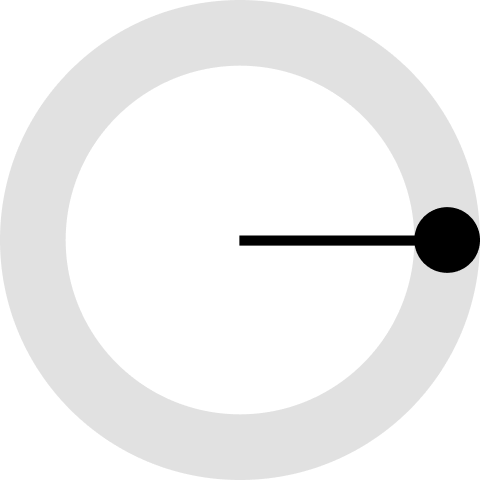
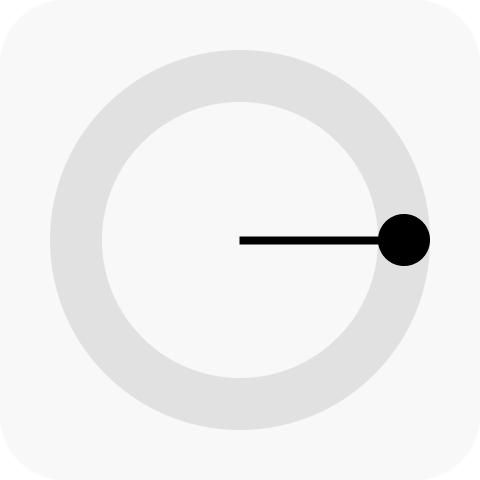
MWPW-186677: use separate harmony card and summary images

Changed region(s): [[0.125, 0.125, 1.0, 0.875]]

diff --git a/test/blocks/color-wheel/harmony-modal.test.js b/test/blocks/color-wheel/harmony-modal.test.js
@@ -9,6 +9,7 @@ const RULES = [
     label: 'Custom',
     description: 'Random colors.',
     imageSrc: '/express/code/blocks/color-wheel/harmony-thumbnails/custom.png',
+    summaryImageSrc: '/express/code/blocks/color-wheel/harmony-thumbnails/summary/custom.png',
     previewColors: ['#1900AB', '#6BB1FF', '#FF7500', '#FFFDEB', '#0076FF'],
   },
   {
@@ -16,6 +17,7 @@ const RULES = [
     label: 'Analogous',
     description: 'Neighboring colors.',
     imageSrc: '/express/code/blocks/color-wheel/harmony-thumbnails/analogous.png',
+    summaryImageSrc: '/express/code/blocks/color-wheel/harmony-thumbnails/summary/analogous.png',
     previewColors: ['#1900AB', '#DB8B69', '#FFA000', '#FF1F02', '#FFBE00'],
   },
   {
@@ -23,6 +25,7 @@ const RULES = [
     label: 'Triad',
     description: 'Evenly spaced colors.',
     imageSrc: '/express/code/blocks/color-wheel/harmony-thumbnails/triad.png',
+    summaryImageSrc: '/express/code/blocks/color-wheel/harmony-thumbnails/summary/triad.png',
     previewColors: ['#1900AB', '#3C00FF', '#00FF0E', '#AA6E39', '#4F4080'],
   },
 ];
@@ -81,6 +84,7 @@ describe('color harmony modal content', () => {
     expect(footerContent.contains(view.element.querySelector('.color-harmony-modal-summary'))).to.equal(true);
     expect(footerContent.contains(view.element.querySelector('.color-harmony-modal-confirm'))).to.equal(true);
     expect(view.element.querySelector('.color-harmony-modal-confirm').textContent).to.equal('Apply harmony');
+    expect(view.element.querySelector('.color-harmony-modal-summary-image').src).to.contain('/harmony-thumbnails/summary/analogous.png');
   });
 
   it('previews a card selection and applies it only on confirmation', () => {

diff --git a/express/code/blocks/color-wheel/color-wheel.js b/express/code/blocks/color-wheel/color-wheel.js
@@ -412,6 +412,7 @@ async function buildHarmonySelector(controller, strings = {}) {
         label: getHarmonyLabel(rule.value),
         description: getHarmonyDescription(rule.value),
         imageSrc: `${HARMONY_THUMB_BASE}/${rule.thumb}`,
+        summaryImageSrc: `${HARMONY_THUMB_BASE}/summary/${rule.thumb}`,
       }));
     const rules = withHarmonyPreviewColors(ColorThemeExpressController, initialState, modalRules);
     const contentView = contentModule.default({

diff --git a/express/code/blocks/color-wheel/createHarmonyModal.js b/express/code/blocks/color-wheel/createHarmonyModal.js
@@ -71,7 +71,7 @@ function createHarmonyModalContent({
 
   function updateSummary(rule) {
     if (!rule) return;
-    summaryImage.src = rule.imageSrc;
+    summaryImage.src = rule.summaryImageSrc || rule.imageSrc;
     summaryName.textContent = rule.label;
   }
 
